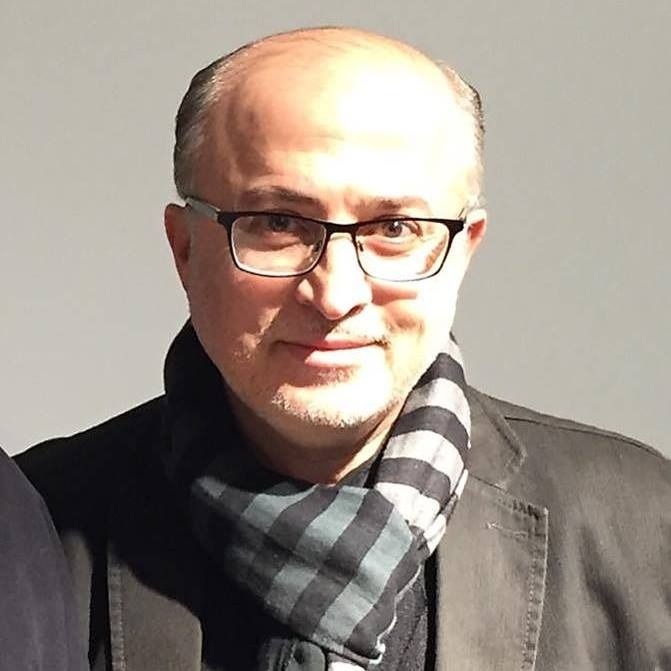
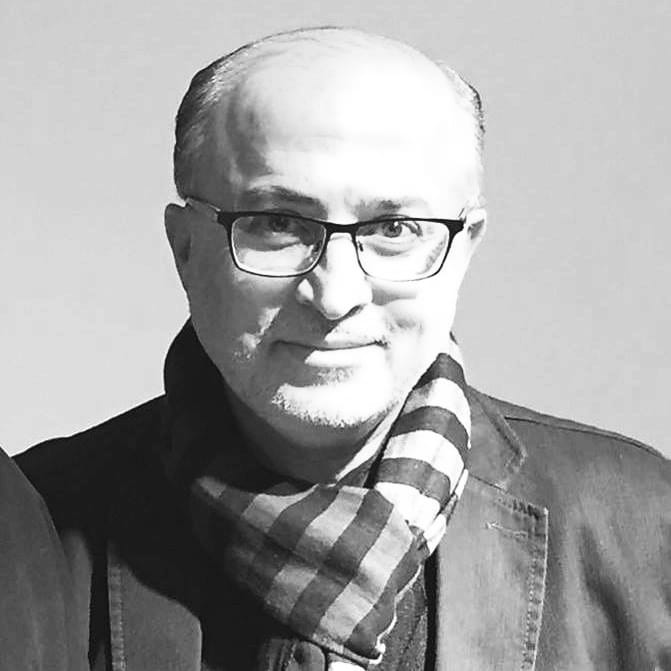
edit team pics to gray and order

diff --git a/index.html b/index.html
@@ -422,22 +422,74 @@
                      <div class="pulsating-circle reverse-pulsating-circle"></div>
                   </div>
                </div>
-               <!-- Zayd Gabara -->
+               <!-- Ammar ElAzama -->
                <div class="row flex-column-reverse flex-md-row" id="zayd">
                   <div class="col-md-6 bg-light-green team-border-media position-relative mt-md-0 mb-4 mb-md-0">
                      <div class=" p-4">
+                        <div class="img-user text-center overflow-hidden m-auto mb-4"><img src="./images/user_ammar.jpg"
+                              alt="" class=" w-100" /></div>
+                        <h4 class="fw-bold mb-4">م. عمار العظمة</h4>
+                        <p>
+                           عمار العظمة، مهندس اتصالات وإلكترونيات، دبلوم في العلوم السياسية وطالب ماجستير في إدارة
+                           الأعمال، مع العمل لأكثر من 13 عاما في إدارة العمل الإنساني والمشاريع المستدامة في سوريا عبر
+                           المشاركة في تأسيس وإدارة مؤسسة بناء للتنمية منذ عام 2013 والتي قامت بتنفيذ مشاريع واسعة
+                           ومتنوعة في مجالات البنية التحتية الحيوية، وتحسين المعيشة، وتوفير المأوى، وتعزيز صمود
+                           المجتمعات والتنمية المستدامة. وصلت مساهمات المؤسسة إلى ملايين السوريين، وشملت مشاريعها ترميم
+                           أنظمة المياه والصرف الصحي، والطرق، وإعادة التدوير، والطاقة المتجددة، وتأهيل وإنشاء المرافق
+                           الصحية والتعليمية، وتقديم الدعم الغذائي وفرص العمل.
+
+                        </p>
+                        <a href="#socialDepartment">رئيس قسم التنمية المؤسسية</a>
+                     </div>
+
+                     <div class="pulsating-circle"></div>
+                  </div>
+                  <div class="col-md-6 team-border p-0">
+                     <div class="image-container h-100 w-100">
+                        <img src="./images/message-ammar.jpg" alt="" class="w-100 h-100">
+                     </div>
+
+                  </div>
+               </div>
+               <!-- Zayd Gabara -->
+               <div class="row" id="zayd">
+                  <div class="col-md-6 p-0 mt-md-0 mt-2">
+                     <div class="image-container h-100 w-100">
+                        <!-- <img src="./images/message-yasser.jpg" alt="" class="w-100 h-100"> -->
+                     </div>
+                  </div>
+                  <div class="col-md-6 bg-light-green team-border position-relative ">
+                     <div class=" p-4">
                         <div class="img-user text-center overflow-hidden m-auto mb-4"><img src="./images/user_zayd.jpg"
-                              alt="Zayd Gabara" class=" w-100" /></div>
+                              alt="wael elsamhory" class="w-100" /></div>
                         <h4 class="fw-bold mb-4">د. زيد جبارة</h4>
                         <p>
-                           دكتوراة في إدارة الأعمال
-                           الرئيس التنفيذي لكبرى الشركات القابضة في قطر
-                           خبرة تتجاوز العشرين عام بالتطوير العقاري
-                           خبير عقاري دولي
-                           استشاري اقتصادي للعديد من الشركات الخليجية في قطر والمنطقة.
-                           مشارك في العديد من المؤتمرات الاقتصادية والعقارية في قطر ودول الخليج
+                           دكتوراة في إدارة الأعمال الرئيس التنفيذي لكبرى الشركات القابضة في قطر خبرة تتجاوز العشرين عام
+                           بالتطوير العقاري خبير عقاري دولي استشاري اقتصادي للعديد من الشركات الخليجية في قطر والمنطقة.
+                           مشارك في العديد من المؤتمرات الاقتصادية والعقارية في قطر ودول الخليج
                         </p>
-                        <a href="#">رئيس قسم الاستثمار و التطوير العقاري</a>
+                        <a href="#">رئيس قسم الاستثمار و التطوير العقاري</a>
+                     </div>
+                     <div class="pulsating-circle reverse-pulsating-circle"></div>
+                  </div>
+               </div>
+               <!-- wael elsamanhory -->
+               <div class="row flex-column-reverse flex-md-row" id="wael">
+                  <div class="col-md-6 bg-light-green team-border-media position-relative mt-md-0 mb-4 mb-md-0">
+                     <div class=" p-4">
+                        <div class="img-user text-center overflow-hidden m-auto mb-4"><img src="./images/user_wael.jpg"
+                              alt="Zayd Gabara" class=" w-100" /></div>
+                        <h4 class="fw-bold mb-4">د. وائل السمهوري</h4>
+                        <p>
+                           الدكتور وائل السمهوري معماري ومصمم حضري وأستاذ جامعي، حاصل على الدكتوراه من الكلية الملكية
+                           للفنون في لندن والماجستير من معهد برات في نيويورك. أسّس وترأّس أقسام العمارة في ثلاث جامعات
+                           سورية، وله حضور دولي من خلال عضويته في مجلس أمناء شبكة الآغا خان ومشاركته كمراجع تقني في
+                           جائزتي الآغا خان والفوزان. حاز على جوائز إقليمية وعالمية مرموقة، وصمّم مشاريع بارزة في سوريا
+                           والكويت، تجمع بين العمق الثقافي والرؤية المعمارية المعاصرة. إلى جانب ممارسته المهنية، يُعدّ
+                           من الأصوات الفكرية في عمارة المساجد، وله عدة مؤلفات، من أبرزها مانيفستو الصعود لإعادة
+                           الإعمار بعد الحرب.
+                        </p>
+                        <a href="#">رئيس قسم التخطيط و التصميم الحضري </a>
                      </div>
 
                      <div class="pulsating-circle"></div>
@@ -449,41 +501,20 @@
 
                   </div>
                </div>
-               <!-- wael elsamhory -->
-               <div class="row" id="wael">
+               <!-- feras kahwagy -->
+               <div class="row" id="feras">
                   <div class="col-md-6 p-0 mt-md-0 mt-2">
                      <div class="image-container h-100 w-100">
-                        <!-- <img src="./images/message-yasser.jpg" alt="" class="w-100 h-100"> -->
+                        <img src="./images/message-feras.jpg" alt="" class="w-100 h-100">
                      </div>
                   </div>
                   <div class="col-md-6 bg-light-green team-border position-relative ">
                      <div class=" p-4">
-                        <div class="img-user text-center overflow-hidden m-auto mb-4"><img src="./images/user_wael.jpg"
-                              alt="wael elsamhory" class="w-100" /></div>
-                        <h4 class="fw-bold mb-4">د. وائل السمهوري</h4>
-                        <p>
-                           الدكتور وائل السمهوري معماري ومصمم حضري وأستاذ جامعي، حاصل على الدكتوراه من الكلية الملكية
-                           للفنون في لندن والماجستير من معهد برات في نيويورك. أسّس وترأّس أقسام العمارة في ثلاث جامعات
-                           سورية، وله حضور دولي من خلال عضويته في مجلس أمناء شبكة الآغا خان ومشاركته كمراجع تقني في
-                           جائزتي الآغا خان والفوزان. حاز على جوائز إقليمية وعالمية مرموقة، وصمّم مشاريع بارزة في سوريا
-                           والكويت، تجمع بين العمق الثقافي والرؤية المعمارية المعاصرة. إلى جانب ممارسته المهنية، يُعدّ
-                           من الأصوات الفكرية في عمارة المساجد، وله عدة مؤلفات، من أبرزها مانيفستو الصعود لإعادة
-                           الإعمار بعد الحرب.
-                        </p>
-                        <a href="#"> رئيس قسم التخطيط و التصميم الحضري </a>
-                     </div>
-                     <div class="pulsating-circle reverse-pulsating-circle"></div>
-                  </div>
-               </div>
-               <!-- Feras Kahwagy -->
-               <div class="row flex-column-reverse flex-md-row" id="feras">
-                  <div class="col-md-6 bg-light-green team-border-media position-relative mt-md-0 mb-4 mb-md-0">
-                     <div class=" p-4">
                         <div class="img-user text-center overflow-hidden m-auto mb-4"><img src="./images/user_feras.jpg"
-                              alt="Feras Kahwagy" class=" w-100" /></div>
-                        <h4 class="fw-bold mb-4">م. فراس قهوجي
-                        </h4>
+                              alt="wael elsamhory" class="w-100" /></div>
+                        <h4 class="fw-bold mb-4">م. فراس قهوجي</h4>
                         <p>
+                          
                            مهندس مدني خريج جامعة دمشق عام ١٩٩٦
                            حصل على ماجستير في إدارة الأخطار والبيئة بالتعاون بين جامعة دمشق وجامعة بواتييه بفرنسا عام
                            ٢٠٠٨
@@ -495,45 +526,12 @@
                            نفذ عدة تجارب في مخيمات الشمال السوري تتعلق بتحويل النفايات لمصادر طاقة
                            يؤمن أن سورية قوية ناجحة هي التي تحفظ الموارد للأجيال القادمة
                         </p>
-                        <a href="#">رئيس قسم الاستدامة البيئية</a>
-                     </div>
-
-                     <div class="pulsating-circle"></div>
-                  </div>
-                  <div class="col-md-6 team-border p-0">
-                     <div class="image-container h-100 w-100">
-                        <img src="./images/message-feras.jpg" alt="" class="w-100 h-100">
-                     </div>
-
-                  </div>
-               </div>
-               <!-- Ammar Alazama -->
-               <div class="row" id="ammar">
-                  <div class="col-md-6 p-0 mt-md-0 mt-2">
-                     <div class="image-container h-100 w-100">
-                        <!-- <img src="./images/message-yasser.jpg" alt="" class="w-100 h-100"> -->
-                     </div>
-                  </div>
-                  <div class="col-md-6 bg-light-green team-border position-relative ">
-                     <div class=" p-4">
-                        <div class="img-user text-center overflow-hidden m-auto mb-4"><img src="./images/user_ammar.jpg"
-                              alt="ammar alazama" class="w-100" /></div>
-                        <h4 class="fw-bold mb-4">م. عمار العظمة
-                        </h4>
-                        <p>
-                           عمار العظمة، مهندس اتصالات وإلكترونيات، دبلوم في العلوم السياسية وطالب ماجستير في إدارة
-                           الأعمال، مع العمل لأكثر من 13 عاما في إدارة العمل الإنساني والمشاريع المستدامة في سوريا عبر
-                           المشاركة في تأسيس وإدارة مؤسسة بناء للتنمية منذ عام 2013 والتي قامت بتنفيذ مشاريع واسعة
-                           ومتنوعة في مجالات البنية التحتية الحيوية، وتحسين المعيشة، وتوفير المأوى، وتعزيز صمود
-                           المجتمعات والتنمية المستدامة. وصلت مساهمات المؤسسة إلى ملايين السوريين، وشملت مشاريعها ترميم
-                           أنظمة المياه والصرف الصحي، والطرق، وإعادة التدوير، والطاقة المتجددة، وتأهيل وإنشاء المرافق
-                           الصحية والتعليمية، وتقديم الدعم الغذائي وفرص العمل.
-                        </p>
-                        <a href="#"> رئيس قسم التخطيط و التصميم الحضري </a>
+                        <a href="#"> رئيس قسم الاستدامة البيئية</a>
                      </div>
                      <div class="pulsating-circle reverse-pulsating-circle"></div>
                   </div>
                </div>
+               
             </div>
          </div>
       </section>
